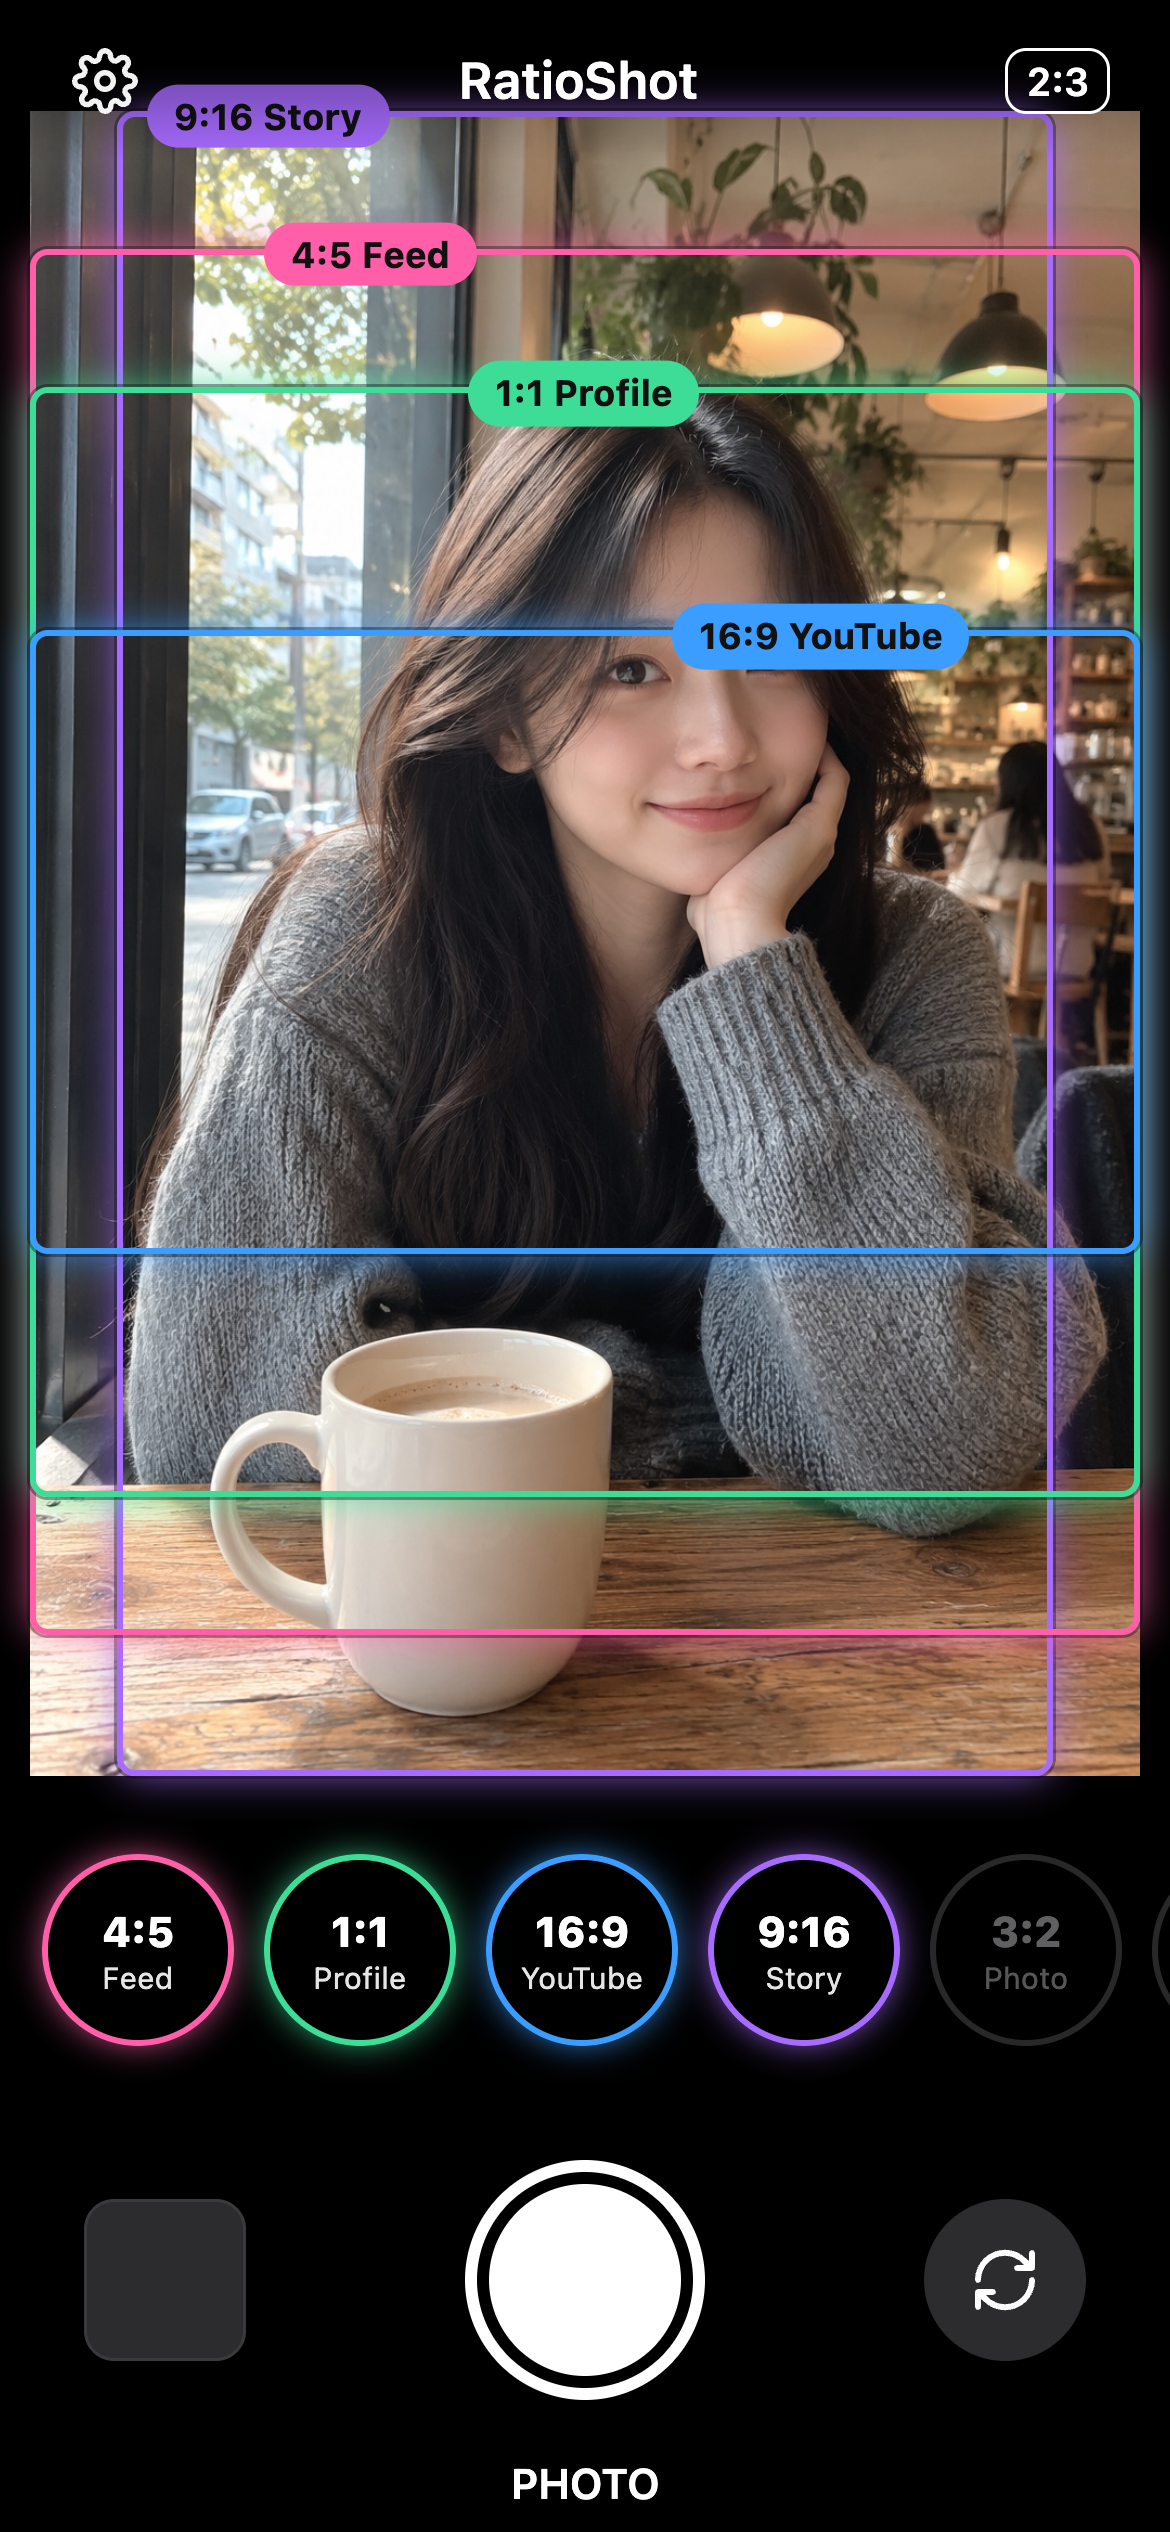
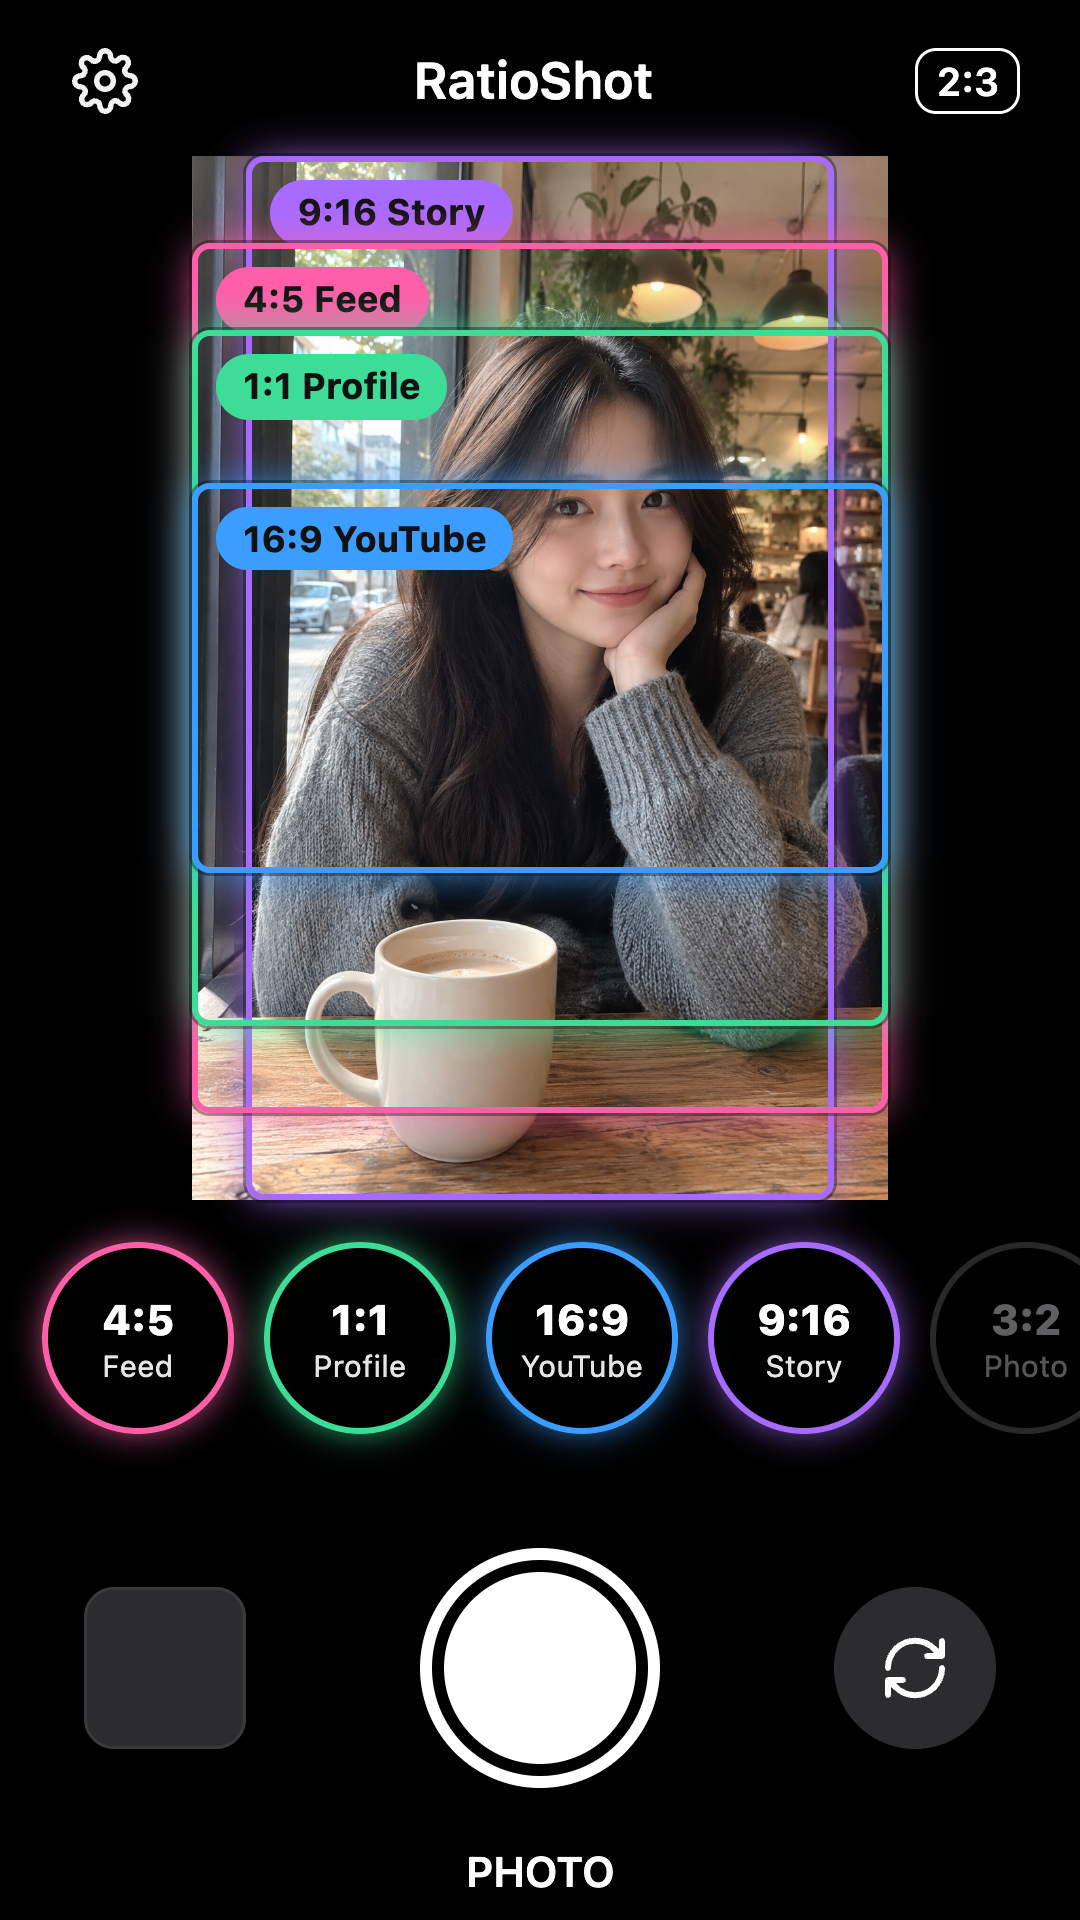
Ratio chips inside frames, clear of the header; 9:16 store screenshots; Play Console asset upload helper

diff --git a/src/styles.css b/src/styles.css
@@ -43,7 +43,7 @@ button { font: inherit; color: inherit; background: none; border: 0; padding: 0;
 .viewport {
   position: relative; flex: 1; min-height: 0; overflow: hidden; background: #000;
 }
-.stage { position: absolute; inset: 24px 10px 90px; }
+.stage { position: absolute; inset: calc(var(--safe-top) + 52px) 10px 90px; }
 .stage video {
   position: absolute; inset: 0; width: 100%; height: 100%; object-fit: contain; background: #000;
 }
@@ -54,7 +54,7 @@ button { font: inherit; color: inherit; background: none; border: 0; padding: 0;
   box-shadow: 0 0 0 1px rgba(0,0,0,.35), 0 0 14px -2px var(--c);
 }
 .frame .chip {
-  position: absolute; top: 0; transform: translateY(-50%);
+  position: absolute; top: 6px; left: 6px;
   font-size: 12px; font-weight: 700; color: #111; padding: 3px 9px; border-radius: 999px;
   background: var(--c); white-space: nowrap; line-height: 1.3;
 }

diff --git a/src/App.tsx b/src/App.tsx
@@ -197,7 +197,7 @@ function Camera({ enabled, onToggle, onShot, lastSaved }: CameraProps) {
                 style={{ ...toScreen(rect), "--c": r.color, zIndex: i + 1 }}
               >
                 {r.id !== "orig" && (
-                  <span className="chip" style={{ left: 8 + i * 68 }}>
+                  <span className="chip">
                     {r.name} {t.short[r.label]}
                   </span>
                 )}
